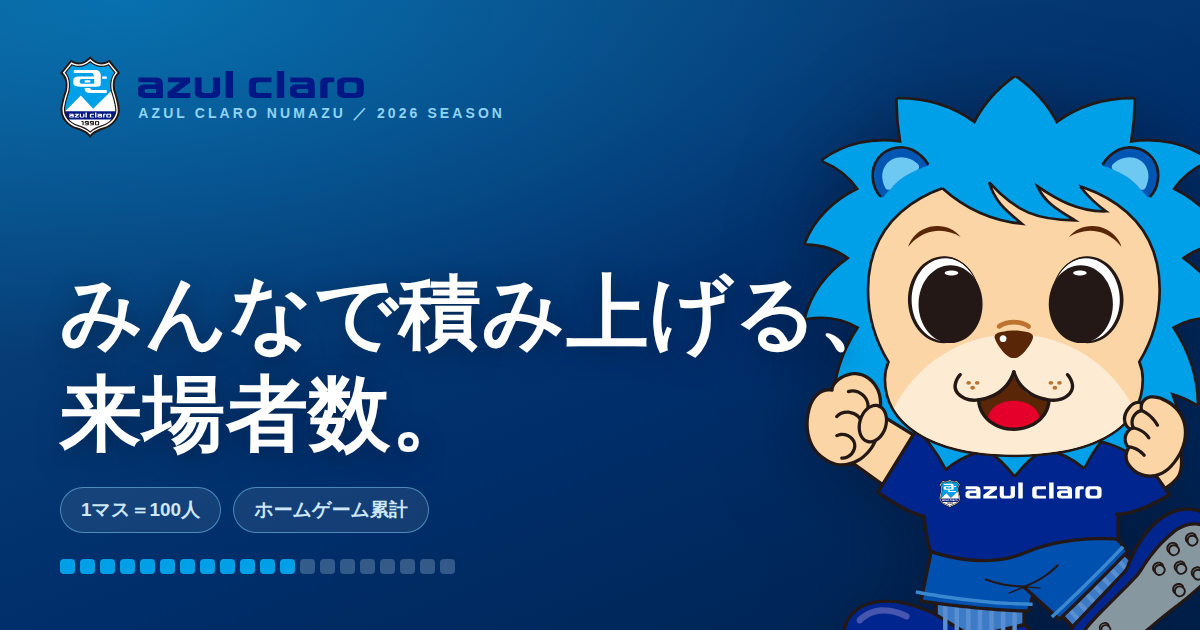
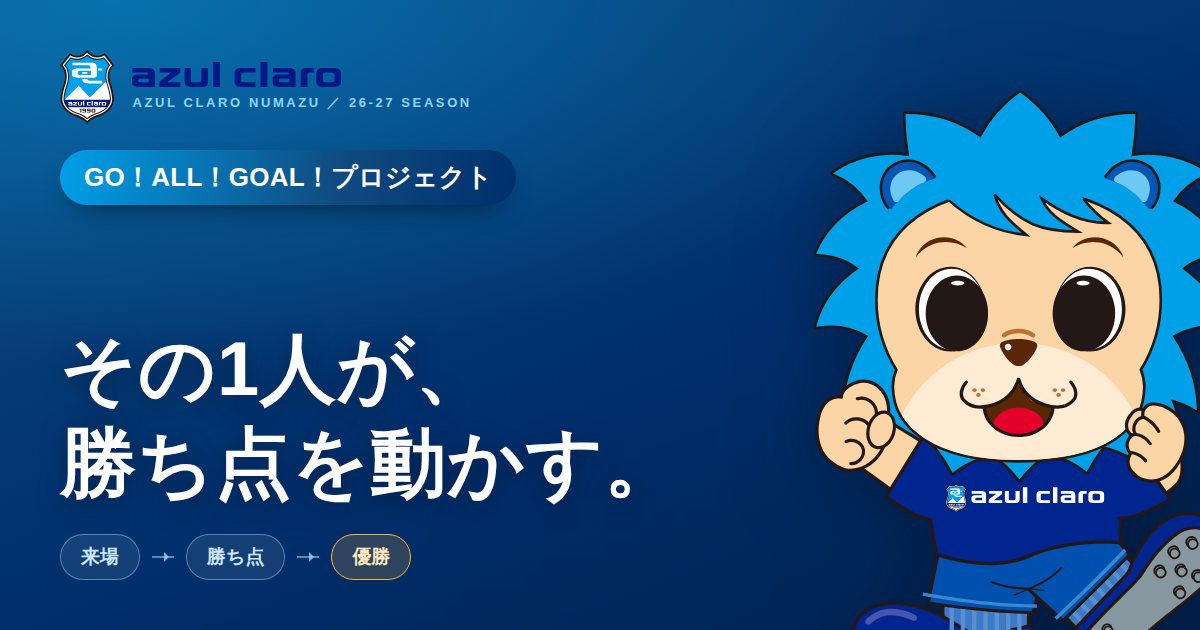
シーズン表記を 26-27 に変更
- タイトル、OGP、meta description、画面上の表示を 26-27 SEASON に
- シェア本文は PROJECT.season を参照する形にして、
  次にシーズン表記を変えるときの書き換え漏れを防いだ
- SNSカード（assets/og.png）にも旧表記が焼き込まれていたため作り直した。
  あわせて中身が古いままだったので、現在のページに合わせて
  プロジェクト名・見出し・来場→勝ち点→優勝の並びを反映した

Claude-Session: https://claude.ai/code/session_01HeLz5MSNv29qnm6wP6PjGr

Changed region(s): [[0.0308, 0.1206, 1.0, 1.0], [0.0308, 0.0603, 0.4317, 0.3619], [0.9558, 0.3921, 1.0, 0.4524]]

diff --git a/attendance/index.html b/attendance/index.html
@@ -3,8 +3,8 @@
 <head>
 <meta charset="UTF-8">
 <meta name="viewport" content="width=device-width, initial-scale=1">
-<title>GO！ALL！GOAL！プロジェクト｜アスルクラロ沼津 2026 SEASON</title>
-<meta name="description" content="アスルクラロ沼津 2026シーズン。ホームゲームの来場者数と勝ち点、そして優勝までの距離をつないで見られる公式ページ。">
+<title>GO！ALL！GOAL！プロジェクト｜アスルクラロ沼津 26-27 SEASON</title>
+<meta name="description" content="アスルクラロ沼津 26-27シーズン。ホームゲームの来場者数と勝ち点、そして優勝までの距離をつないで見られる公式ページ。">
 
 <!-- ▼ SNS シェア時のカード（OGP）
      og:image と og:url は「絶対URL」でないと X／Facebook が画像を取得できません。
@@ -14,7 +14,7 @@
 <meta property="og:type" content="website">
 <meta property="og:site_name" content="アスルクラロ沼津">
 <meta property="og:locale" content="ja_JP">
-<meta property="og:title" content="GO！ALL！GOAL！プロジェクト｜アスルクラロ沼津 2026 SEASON">
+<meta property="og:title" content="GO！ALL！GOAL！プロジェクト｜アスルクラロ沼津 26-27 SEASON">
 <meta property="og:description" content="その1人が、勝ち点を動かす。来場者数とホームの勝ち点、優勝までの距離。あと何人来てくれたら届くのかが分かります。">
 <meta property="og:url" content="https://REPLACE-WITH-YOUR-DOMAIN/attendance/">
 <meta property="og:image" content="https://REPLACE-WITH-YOUR-DOMAIN/attendance/assets/og.png">
@@ -1104,7 +1104,7 @@ const LINKS = {
 const PROJECT = {
   name:   "GO！ALL！GOAL！プロジェクト",
   short:  "GO！ALL！GOAL！",
-  season: "2026 SEASON"
+  season: "26-27 SEASON"
 };
 
 /* ---- シェア設定 ---- */
@@ -1657,7 +1657,7 @@ function shareUrl(){
 function textNow(){
   const s = state(), L = SEASON.league;
   const need = neededAtt();
-  const head = `アスルクラロ沼津 2026｜ホーム累計 ${yen(s.total)}人、勝ち点 ${s.points}点。`;
+  const head = `アスルクラロ沼津 ${PROJECT.season}｜ホーム累計 ${yen(s.total)}人、勝ち点 ${s.points}点。`;
   let body;
   if(s.points >= L.goalPoints)      body = `${L.goalName}ラインに到達しました。`;
   else if(s.homeLeft <= 0)          body = `${L.goalName}まであと${s.toGoal}点。`;

diff --git a/attendance/README.md b/attendance/README.md
@@ -9,7 +9,7 @@
 const PROJECT = {
   name:   "GO！ALL！GOAL！プロジェクト",
   short:  "GO！ALL！GOAL！",   // シェア本文のハッシュタグに使われます
-  season: "2026 SEASON"
+  season: "26-27 SEASON"
 };
 ```
 
